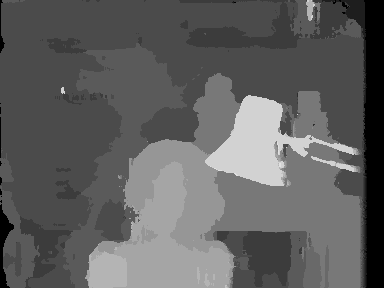
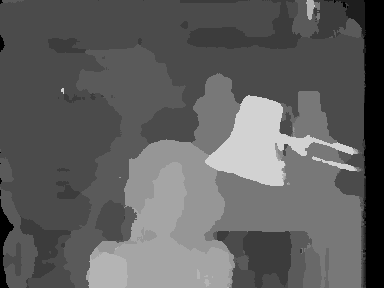
Fix weighted median filter & Add cost window size

diff --git a/main.py b/main.py
@@ -7,10 +7,10 @@ parser = argparse.ArgumentParser()
 
 parser.add_argument('--dataset', default='tsukuba', help='data name')
 parser.add_argument('--costmethod', default='ASW', help='cost computation method')
-parser.add_argument('--costwindow', default=3, help='kernel size')
+parser.add_argument('--costwindow', default=33, help='kernel size')
 parser.add_argument('--lrcheck', default=False, help='left right consistency check')
-parser.add_argument('--treefilter', default=True, help='tree filter')
-parser.add_argument('--midfilter', default=False, help='weighted median filter')
+parser.add_argument('--treefilter', default=False, help='tree filter')
+parser.add_argument('--midfilter', default=0, help='weighted median filter')
 
 args = parser.parse_args()
 
@@ -19,7 +19,8 @@ datapath = "./data/" + args.dataset+ "/"
 def main():
     imageset = ImageLoader(datapath)
     depth = 16
-    window_size = args.costwindow
+    window_size = int(args.costwindow)
+    mid_window_size = int(args.midfilter)
     right_image = imageset[0]
     left_image = imageset[1]
     
@@ -41,8 +42,8 @@ def main():
         LR_check(left_disparity, right_disparity, depth)
     if args.treefilter:
         Tree_filter(left_image, left_disparity, left_costvolume, depth, window_size)
-    if args.midfilter:
-        Mid_filter(left_disparity, left_image, depth, 3)
+    if mid_window_size > 0:
+        Mid_filter(left_disparity, left_image, depth, mid_window_size)
 
 if __name__ == "__main__":
     main()

diff --git a/post_processing/Mid_filter.py b/post_processing/Mid_filter.py
@@ -46,14 +46,13 @@ def Mid_filter(disparity, image, depth, filter_size=3):
             for d in range(depth):
                 binary_filter = padded_bin_disparity[h:h+filter_size, w:w+filter_size, d]
                 histogram[h, w, d] = np.sum(binary_filter * Bilateral_filter(padded_image[h:h+filter_size, w:w+filter_size], filter_size))
-    '''
+    
     for d in range(depth):
         print_img = histogram[:, :, d]
         cv2.imshow('histogram', print_img)
         cv2.waitKey(0)
         cv2.destroyAllWindows()    
-    '''
-
+    
     aggregated_disparity = np.argmax(histogram, axis=2)
 
     print_img = aggregated_disparity.astype(np.uint8) * int(255 / depth)

diff --git a/cost_computation/SAD.py b/cost_computation/SAD.py
@@ -1,6 +1,7 @@
 import numpy as np
 import cv2
 from utils import RGB_to_gray
+from tqdm import tqdm
 
 def SAD(left_image, right_image, depth, kernel_size=3):
 
@@ -41,7 +42,7 @@ def disparity_map(left_costvolume, right_costvolume, depth, kernel_size):
 
     kernel = np.ones((kernel_size, kernel_size)) / kernel_size**2
 
-    for h in range(height):
+    for h in tqdm(range(height)):
         for w in range(width):
             for n in range(depth):
                 left_disparity_conv[h, w, n] = np.sum(padded_left_disparity[h:h+kernel_size, w:w+kernel_size, n] * kernel)

diff --git a/README.md b/README.md
@@ -50,7 +50,7 @@ python main.py --costmethod SD
 
 ### Sum of absolute differences
 ```bash
-python main.py --costmethod SAD
+python main.py --costmethod SAD --costwindow 3
 ```
 
 <div style="display: flex; justify-content: center;">
@@ -60,7 +60,7 @@ python main.py --costmethod SAD
 
 ### Sum of squared differences
 ```bash
-python main.py --costmethod SSD
+python main.py --costmethod SSD --costwindow 3
 ```
 
 <div style="display: flex; justify-content: center;">
@@ -70,7 +70,7 @@ python main.py --costmethod SSD
 
 ### Adaptive Support Weights
 ```bash
-python main.py --costmethod ASW
+python main.py --costmethod ASW --costwindow 33
 ```
 
 <div style="display: flex; justify-content: center;">
@@ -89,7 +89,7 @@ python main.py --costmethod SGM
 
 ### Left Right Consistency Check
 ```bash
-python main.py --costmethod SAD --lrcheck True
+python main.py --costmethod SAD --costwindow 3 --lrcheck True
 ```
 
 <div style="display: flex; justify-content: center;">
@@ -98,7 +98,7 @@ python main.py --costmethod SAD --lrcheck True
 
 ### Weighted Median Filter
 ```bash
-python main.py --costmethod ASW --midfilter True
+python main.py --costmethod ASW --costwindow 33 --midfilter 5
 ```
 
 <div style="display: flex; justify-content: center;">
